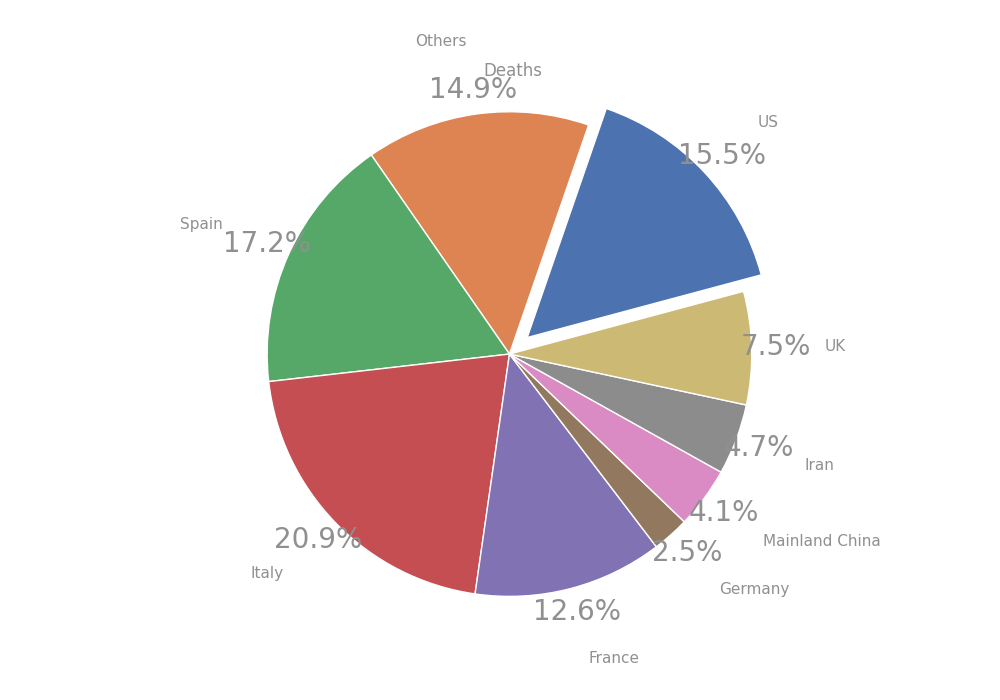
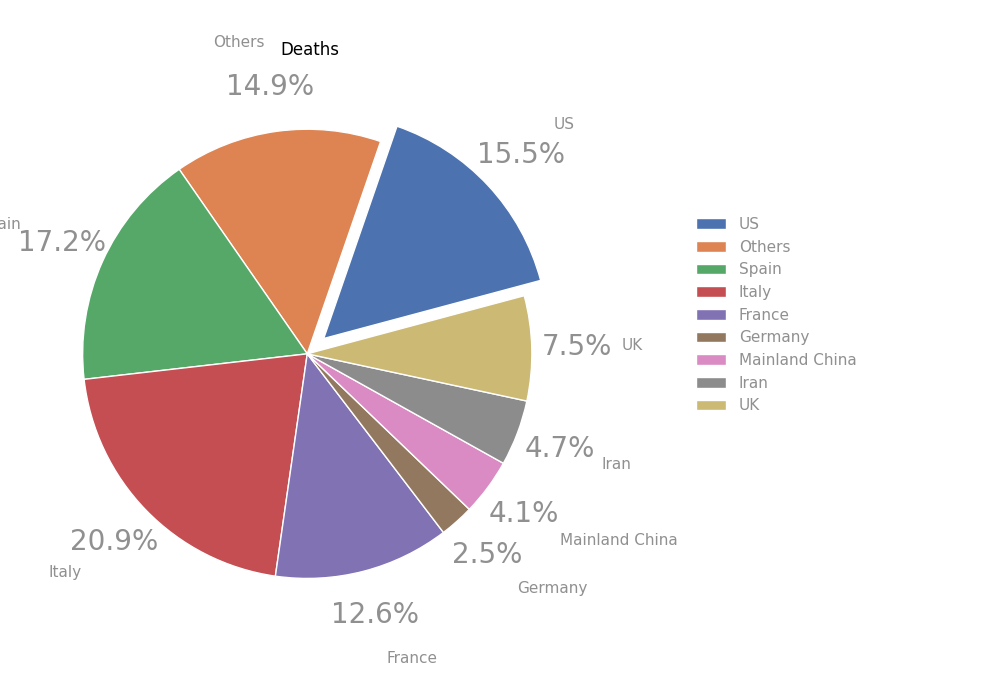
update 8/4

diff --git a/eda.py b/eda.py
@@ -41,12 +41,12 @@ def make_pie(df = None, title='', case = ''):
                autopct='%1.1f%%', 
                shadow=False,
                startangle=15,   
-               pctdistance=1.1,
-               labeldistance=1.3)
+               pctdistance=1.2,
+               labeldistance=1.4)
     ax.axis('equal')
-    ax.set_title(title)
+    ax.set_title(title, y = 1.08, color = 'black')
     ax.legend(frameon=False, bbox_to_anchor=(1.5,0.8))
-
+    plt.tight_layout()
 #
 def plot_report(df : pd.DataFrame(), column : str, title : str, head : int):
     if column == 'Death Rate':
@@ -56,7 +56,7 @@ def plot_report(df : pd.DataFrame(), column : str, title : str, head : int):
 
     #fig, ax = plt.subplots(2, 2, figsize=(15, 10))
     g = sns.barplot(_df[column], _df.index)#, color = 'b')
-    plt.title(title, fontsize=12)
+    plt.title(title, fontsize=12)#, y = 1.1)
     plt.ylabel(None)
     plt.xlabel(None)
     plt.grid(axis='x', linestyle='--')
@@ -134,14 +134,14 @@ kshow= True
 
 kpiedeaths = True
 kpieconfirmed = True
-kcountryview = True
-kdeathrates = True
-koverview = True
-kstates = True
-koverall = True
-klead = True
-krates = True
-kmortal= True
+kcountryview = False
+kdeathrates = False
+koverview = False
+kstates = False
+koverall = False
+klead = False
+krates = False
+kmortal= False
 kmortaldense = False
 odir = "images/eda"
 

diff --git a/README.md b/README.md
@@ -84,6 +84,14 @@ Note: China does not expose an exponential growth.
 Growth for Germany considering the last 15 days.
 
 ## Doubling Times for Confirmed Cases using gradients
+The relative growth rate
+<img src="https://latex.codecogs.com/gif.latex?\dpi{150}&space;k" />
+used in the calculation of the doubling time
+<img src="https://latex.codecogs.com/gif.latex?\dpi{120}&space;T&space;=&space;\tfrac{\ln&space;2}{k}" />.
+is derived by dividing the exponential growth function
+https://latex.codecogs.com/gif.latex?\dpi{120}&space;f(t)
+to its the gradient (first derivative) 
+https://latex.codecogs.com/gif.latex?\dpi{120}&space;k=\tfrac{f^\prime(t)}{f(t)}.
 
 ![Doubling times grad](images/doubling_time/pie_confirmed_gradients.png "Doubling times using gradients")
 
